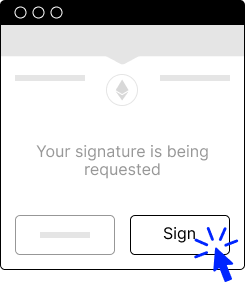
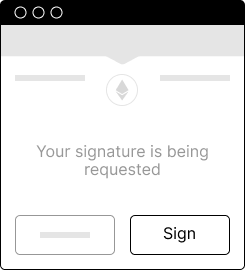
release fix

diff --git a/packages/apps/app-dashboard/components/common/instruction/index.js b/packages/apps/app-dashboard/components/common/instruction/index.js
@@ -13,16 +13,16 @@ class Instruction extends React.Component {
     const { ethAmount, tokenAmount, tokenSymbol, linksAmount } = this.props
     if (tokenAmount) {
       return <div className={styles.container}>
-        <p className={styles.text} dangerouslySetInnerHTML={{ __html: this.t('texts._19') }} />
+        <p className={styles.text} dangerouslySetInnerHTML={{ __html: this.t('texts._1') }} />
         <MetamaskPopup />
-        <p className={styles.textExtra} dangerouslySetInnerHTML={{ __html: this.t('texts._20') }} />
+        <p className={styles.textExtra} dangerouslySetInnerHTML={{ __html: this.t('texts._2') }} />
       </div>
     }
 
     return <div className={styles.container}>
-      <p className={styles.text} dangerouslySetInnerHTML={{ __html: this.t('texts._21') }} />
+      <p className={styles.text} dangerouslySetInnerHTML={{ __html: this.t('texts._3') }} />
       <MetamaskPopup amount={convertFromExponents(multiply(add(bignumber(ethAmount), config.linkPrice), bignumber(linksAmount)))} />
-      <p className={styles.textExtra} dangerouslySetInnerHTML={{ __html: this.t('texts._20') }} />
+      <p className={styles.textExtra} dangerouslySetInnerHTML={{ __html: this.t('texts._2') }} />
     </div>
   }
 }

diff --git a/packages/apps/app-dashboard/texts/en/pages/campaign-create/index.js b/packages/apps/app-dashboard/texts/en/pages/campaign-create/index.js
@@ -81,9 +81,6 @@ export default {
     _16: '<span>{{eth}} ETH</span> — Ether to distribute',
     _17: '<span>{{eth}} ETH</span> — Service fee',
     _18: 'By service fees, we cover Gas costs for links distribution and our operation costs.',
-    _19: 'MetaMask will show you <span>Signature Request</span> pop-up that you need to sign',
-    _20: 'No pop-up? Click on MetaMask icon in your browser',
-    _21: 'MetaMask will show you <span>Transaction</span> pop-up that you need to confirm',
     codeBlock: `// installation: yarn add @linkdrop/sdk
 // import library
 const LinkdropSDK = require('@linkdrop/sdk')

diff --git a/packages/apps/app-dashboard/texts/en/common/index.js b/packages/apps/app-dashboard/texts/en/common/index.js
@@ -5,6 +5,7 @@ import linkdrop from './linkdrop'
 import pageHeader from './page-header'
 import pageLoader from './page-loader'
 import mobileDisabled from './mobile-disabled'
+import instruction from './instruction'
 
 export default {
   paths,
@@ -13,5 +14,6 @@ export default {
   linkdrop,
   pageHeader,
   pageLoader,
-  mobileDisabled
+  mobileDisabled,
+  instruction
 }

diff --git a/packages/apps/app-dashboard/texts/en/common/instruction/index.js b/packages/apps/app-dashboard/texts/en/common/instruction/index.js
@@ -1,0 +1,7 @@
+export default {
+  texts: {
+    _1: 'MetaMask will show you <span>Signature Request</span> pop-up that you need to sign',
+    _2: 'No pop-up? Click on MetaMask icon in your browser',
+    _3: 'MetaMask will show you <span>Transaction</span> pop-up that you need to confirm'
+  }
+}

diff --git a/packages/apps/app-dashboard/components/common/metamask-popup/index.js b/packages/apps/app-dashboard/components/common/metamask-popup/index.js
@@ -38,6 +38,9 @@ class MetamaskPopup extends React.Component {
         width={245}
         {...getImages({ src: 'popup-approve' })}
       />
+      <div className={styles.arrow}>
+        <Icons.Cursor />
+      </div>
     </div>
   }
 }
